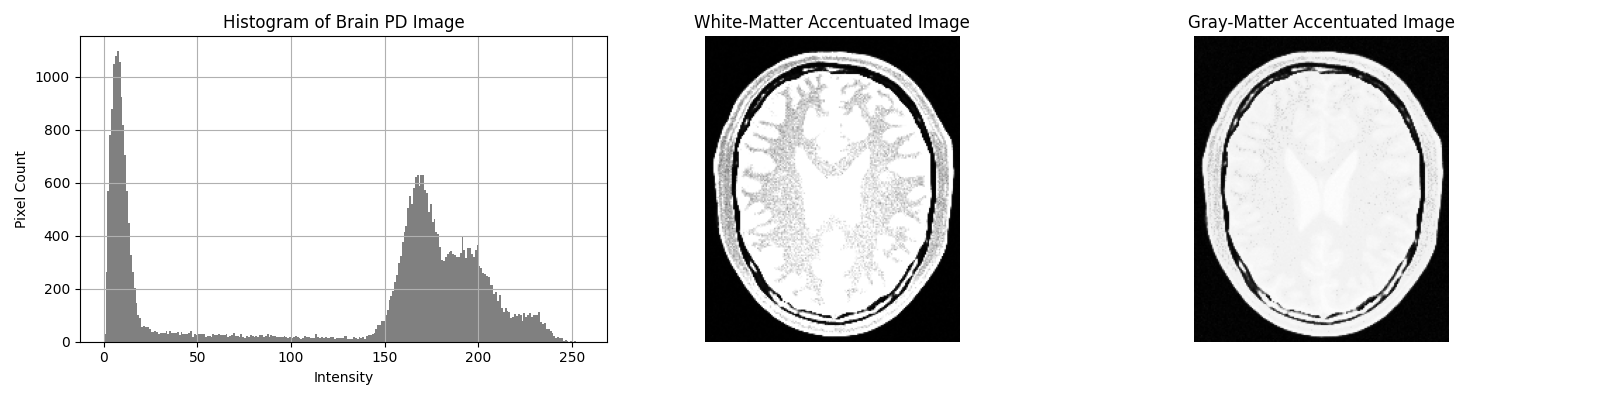
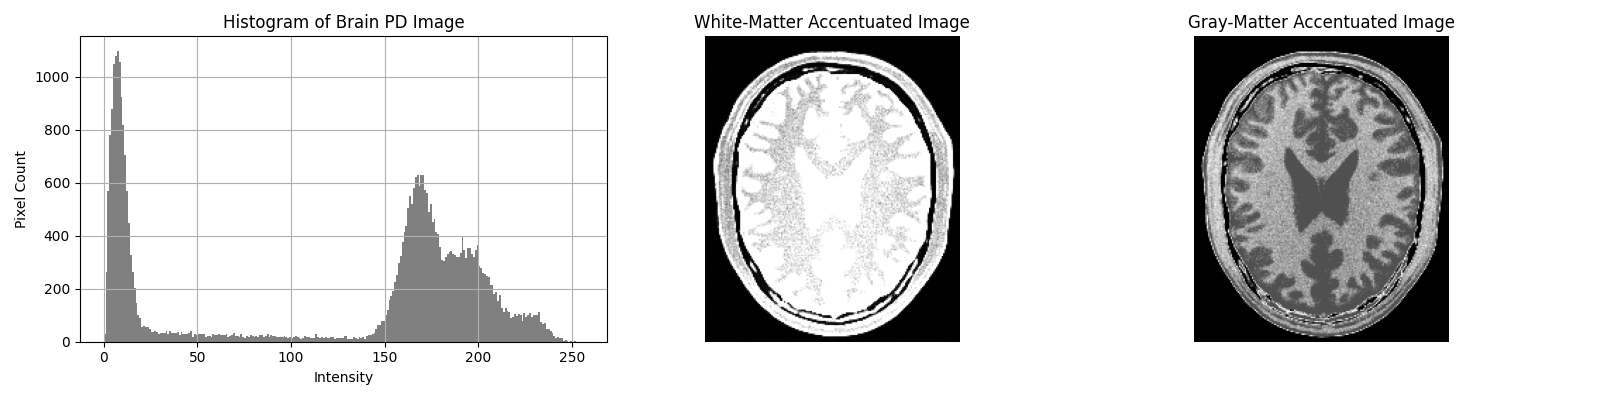
Question 3 updated

Changed region(s): [[0.75, 0.12, 0.9062, 0.84]]

diff --git a/Question_3.py b/Question_3.py
@@ -1,0 +1,50 @@
+import cv2
+import numpy as np
+import matplotlib.pyplot as plt
+
+img = cv2.imread('highlights_and_shadows.jpg')
+if img is None:
+    raise FileNotFoundError("Could not load highlights_and_shadows.jpg – check the filename/path.")
+
+lab = cv2.cvtColor(img, cv2.COLOR_BGR2LAB)
+l, a, b = cv2.split(lab)      # l = L* channel (0-255 in OpenCV)
+
+gamma = 0.4
+l_gamma = np.array(255 * (l / 255.0) ** gamma, dtype=np.uint8)
+
+# Merge back and convert to BGR
+lab_corrected = cv2.merge([l_gamma, a, b])
+corrected = cv2.cvtColor(lab_corrected, cv2.COLOR_LAB2BGR)
+
+# Convert both images to grayscale for histogram
+original_gray = cv2.cvtColor(img, cv2.COLOR_BGR2GRAY)
+corrected_gray = cv2.cvtColor(corrected, cv2.COLOR_BGR2GRAY)
+
+plt.figure(figsize=(10, 5))
+
+plt.subplot(1, 2, 1)
+plt.hist(original_gray.ravel(), bins=256, range=(0, 256), color='gray')
+plt.title('Histogram - Original Image')
+plt.xlabel('Intensity')
+plt.ylabel('Pixel Count')
+plt.grid(True)
+
+plt.subplot(1, 2, 2)
+plt.hist(corrected_gray.ravel(), bins=256, range=(0, 256), color='gray')
+plt.title('Histogram - Gamma-Corrected Image (γ = 0.4)')
+plt.xlabel('Intensity')
+plt.ylabel('Pixel Count')
+plt.grid(True)
+
+plt.tight_layout()
+plt.savefig('q3_histograms.png')
+plt.show()
+
+cv2.imwrite('q3_original.png', img)
+cv2.imwrite('q3_corrected_gamma_0.5.png', corrected)
+
+cv2.imshow('Original (Fig. 3)', img)
+cv2.imshow('Gamma Corrected (γ = 0.5)', corrected)
+cv2.waitKey(0)
+cv2.destroyAllWindows()
+

diff --git a/Question_2.py b/Question_2.py
@@ -12,8 +12,8 @@ x_white = np.array([0,   110,  175,  255])
 y_white = np.array([0,    20,  255,  255])
 
 # Breakpoints for gray-matter accentuation (emphasize mid-intensity range)
-x_gray = np.array([0,   80,  120,  160,  255])
-y_gray = np.array([0,   40,  130,  240,  255])
+x_gray = np.array([0,   55,  135,  200,  255])
+y_gray = np.array([0,    0,  255,   80,   80])
 
 lut_white = np.interp(np.arange(256), x_white, y_white).astype(np.uint8)
 lut_gray = np.interp(np.arange(256), x_gray, y_gray).astype(np.uint8)
